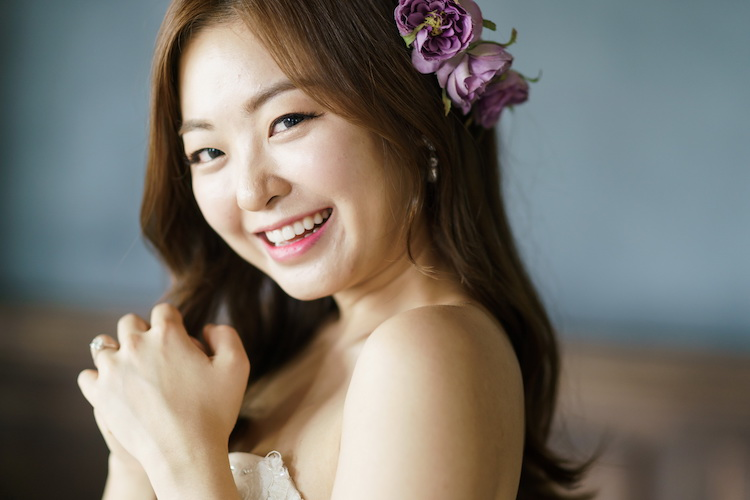
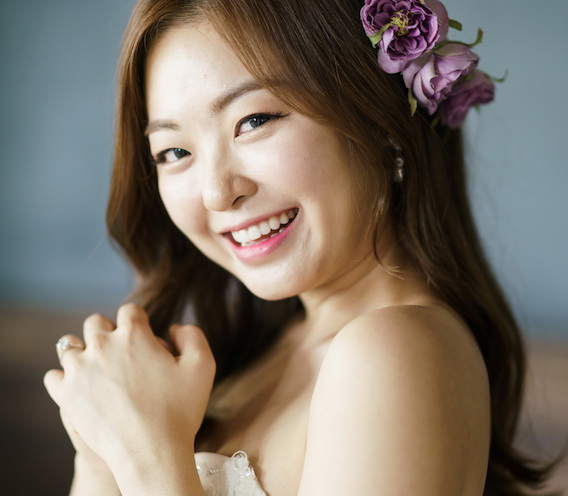
updates

diff --git a/index.html b/index.html
@@ -124,7 +124,7 @@
 			<div class="couple-wrap animate-box">
 				<div class="couple-half">
 					<div class="groom">
-						<img src="https://drive.google.com/uc?id=1HfEegr2j2VNKGPXpvz7poXXFVnQlbUtU" alt="groom" class="img-responsive">
+						<img src="https://drive.google.com/uc?id=1I1Sj9HTOVxxh0XyYCQyHHfdFyOC-XDT2" alt="groom" class="img-responsive">
 					</div>
 					<div class="desc-groom">
 						<h2>Anthony Chong</h2>
@@ -134,7 +134,7 @@
 				<p class="heart text-center"><i class="icon-heart2"></i></p>
 				<div class="couple-half">
 					<div class="bride">
-						<img src="https://drive.google.com/uc?id=1kzosaeCyGjuCR-qptSQl9Mok-7dScZbE" alt="groom" class="img-responsive">
+						<img src="https://drive.google.com/uc?id=1kzosaeCyGjuCR-qptSQl9Mok-7dScZbEal" alt="groom" class="img-responsive">
 					</div>
 					<div class="desc-bride">
 						<h2>Sheila Tse</h2>
@@ -227,7 +227,7 @@
 				<div class="col-md-8 col-md-offset-2 text-center fh5co-heading animate-box">
 					<span>WWhen we were young</span>
 					<h2>Our childhood</h2>
-					<p>Gone were the days when we were kids, now we are .</p>
+					<p>Gone were the days when we were kids, now we are ready to start a new page.</p>
 				</div>
 			</div>
 			<div class="row">
@@ -241,7 +241,7 @@
 									<span class="date"></span>
 								</div>
 								<div class="timeline-body">
-									<p><br>Hello<br></p>
+									<p><br>Hello everyone and my future husband<br></p>
 								</div>
 							</div>
 						</li>
@@ -253,7 +253,7 @@
 									<span class="date"></span>
 								</div>
 								<div class="timeline-body">
-									<p><br>Hello<br></p>
+									<p><br>Hello everyone and my future wife<br></p>
 								</div>
 							</div>
 						</li>

diff --git a/gallery.html b/gallery.html
@@ -92,7 +92,7 @@
 	</nav>
 
 
-	<header id="fh5co-header" class="fh5co-cover fh5co-cover-sm" role="banner" style="background-image:url(https://drive.google.com/uc?id=1ED7LI6XKtMGkEMxhZwGnwvLn8biT63qn);">
+	<header id="fh5co-header" class="fh5co-cover fh5co-cover-sm" role="banner" style="background-image:url(https://drive.google.com/uc?id=1ED7LI6XKtMGkEMxhZwGnwvLn8biT63qn)" ;>
 		<div class="overlay"></div>
 		<div class="fh5co-container">
 			<div class="row">
